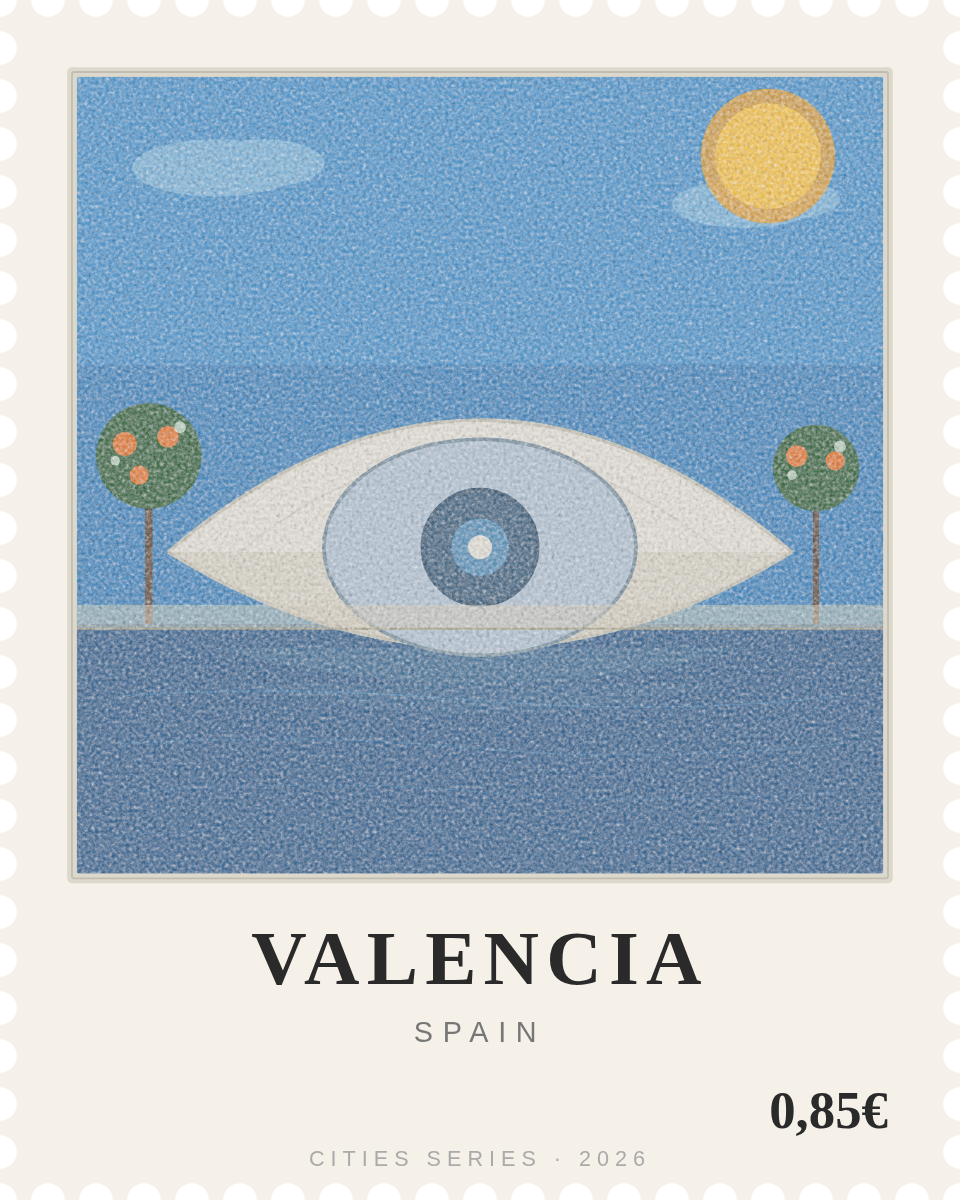
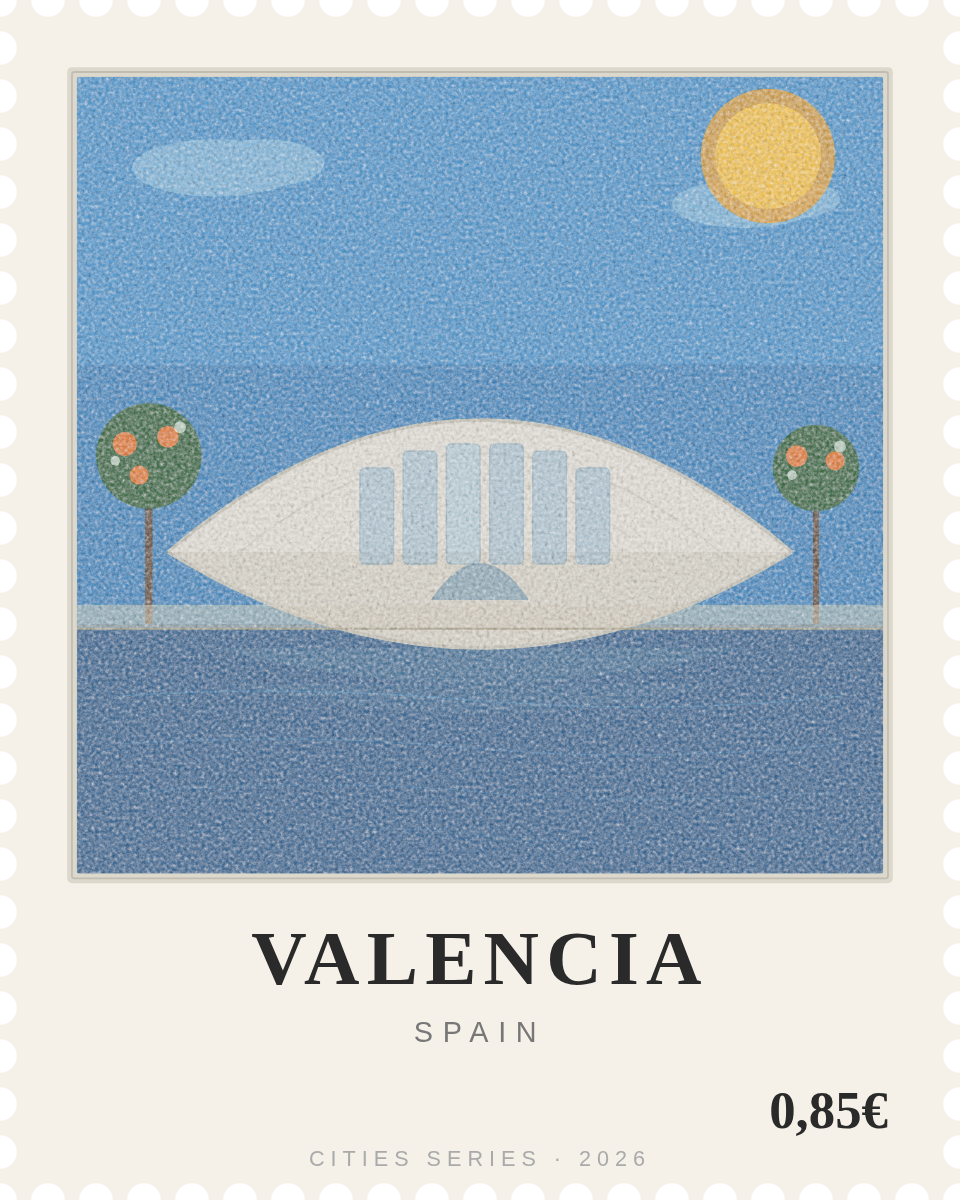
Fix Valencia stamp: replace eyeball-like concentric circles with glass facade panels
The Hemisfèric illustration had inner dome and pupil circles that made
it look like an eye. Replaced with rectangular glass facade panels and
an entrance arch for proper architectural appearance. Applied the fix
to both the standalone stamp collection and the About page version.

Claude-Session: https://claude.ai/code/session_014mTkHAMp5uxNXAdqKRJ2qs

Changed region(s): [[0.3125, 0.3392, 0.6875, 0.555]]

diff --git a/src/components/MapSection.tsx b/src/components/MapSection.tsx
@@ -166,12 +166,17 @@ function ValenciaScene() {
       {/* Structural ribs */}
       <path d="M50,142 Q100,88 150,142" fill="none" stroke={C} strokeWidth="0.5" opacity="0.2" />
       <path d="M68,142 Q100,105 132,142" fill="none" stroke={C} strokeWidth="0.4" opacity="0.15" />
-      {/* Inner dome */}
-      <ellipse cx="100" cy="140" rx="42" ry="30" fill={C} fillOpacity="0.08" stroke={C} strokeWidth="1" opacity="0.5" />
-      {/* Pupil structure */}
-      <circle cx="100" cy="140" r="16" fill={C} fillOpacity="0.18" stroke={C} strokeWidth="1" opacity="0.6" />
-      <circle cx="100" cy="140" r="8" fill={C} fillOpacity="0.25" stroke={C} strokeWidth="0.5" opacity="0.4" />
-      <circle cx="100" cy="140" r="3" fill={C} fillOpacity="0.35" />
+      {/* Glass facade panels */}
+      <g opacity="0.5">
+        <rect x="72" y="125" width="8" height="22" rx="1" fill={C} fillOpacity="0.15" stroke={C} strokeWidth="0.5" />
+        <rect x="82" y="121" width="8" height="26" rx="1" fill={C} fillOpacity="0.15" stroke={C} strokeWidth="0.5" />
+        <rect x="92" y="119" width="8" height="28" rx="1" fill={C} fillOpacity="0.18" stroke={C} strokeWidth="0.5" />
+        <rect x="102" y="119" width="8" height="28" rx="1" fill={C} fillOpacity="0.15" stroke={C} strokeWidth="0.5" />
+        <rect x="112" y="121" width="8" height="26" rx="1" fill={C} fillOpacity="0.15" stroke={C} strokeWidth="0.5" />
+        <rect x="122" y="125" width="8" height="22" rx="1" fill={C} fillOpacity="0.15" stroke={C} strokeWidth="0.5" />
+      </g>
+      {/* Entrance arch */}
+      <path d="M90,158 Q100,142 110,158" fill={C} fillOpacity="0.12" stroke={C} strokeWidth="0.6" opacity="0.4" />
       {/* Reflections in pool */}
       <path d="M36,168 Q100,178 164,168" stroke={C} strokeWidth="0.7" opacity="0.15" fill="none" />
       <path d="M42,174 Q100,182 158,174" stroke={C} strokeWidth="0.5" opacity="0.1" fill="none" />

diff --git a/stamps/generate.js b/stamps/generate.js
@@ -158,12 +158,17 @@ const valencia = `
   <!-- Structural ribs -->
   <path d="M100,230 Q200,148 300,230" fill="none" stroke="#ccc8bc" stroke-width="0.8" opacity="0.5"/>
   <path d="M130,230 Q200,170 270,230" fill="none" stroke="#ccc8bc" stroke-width="0.6" opacity="0.4"/>
-  <!-- Inner dome -->
-  <ellipse cx="200" cy="228" rx="65" ry="45" fill="#b8c8d8" stroke="#8098a8" stroke-width="1.5"/>
-  <!-- Pupil -->
-  <circle cx="200" cy="228" r="24" fill="#3a6888" stroke="#285878" stroke-width="1.5"/>
-  <circle cx="200" cy="228" r="12" fill="#5a98c0"/>
-  <circle cx="200" cy="228" r="5" fill="#e8e4dc"/>
+  <!-- Glass facade panels -->
+  <g opacity="0.5">
+    <rect x="150" y="195" width="14" height="40" rx="2" fill="#8ab8d8" stroke="#6898b8" stroke-width="0.6"/>
+    <rect x="168" y="188" width="14" height="47" rx="2" fill="#8ab8d8" stroke="#6898b8" stroke-width="0.6"/>
+    <rect x="186" y="185" width="14" height="50" rx="2" fill="#9ac8e0" stroke="#6898b8" stroke-width="0.6"/>
+    <rect x="204" y="185" width="14" height="50" rx="2" fill="#8ab8d8" stroke="#6898b8" stroke-width="0.6"/>
+    <rect x="222" y="188" width="14" height="47" rx="2" fill="#8ab8d8" stroke="#6898b8" stroke-width="0.6"/>
+    <rect x="240" y="195" width="14" height="40" rx="2" fill="#8ab8d8" stroke="#6898b8" stroke-width="0.6"/>
+  </g>
+  <!-- Entrance arch -->
+  <path d="M180,250 Q200,220 220,250" fill="#6898b8" opacity="0.6" stroke="#5888a8" stroke-width="0.8"/>
   <!-- Reflection in pool -->
   <path d="M90,270 Q200,300 310,270" fill="#e8e4dc" opacity="0.12"/>
   <path d="M100,285 Q200,310 300,285" fill="#e8e4dc" opacity="0.08"/>
